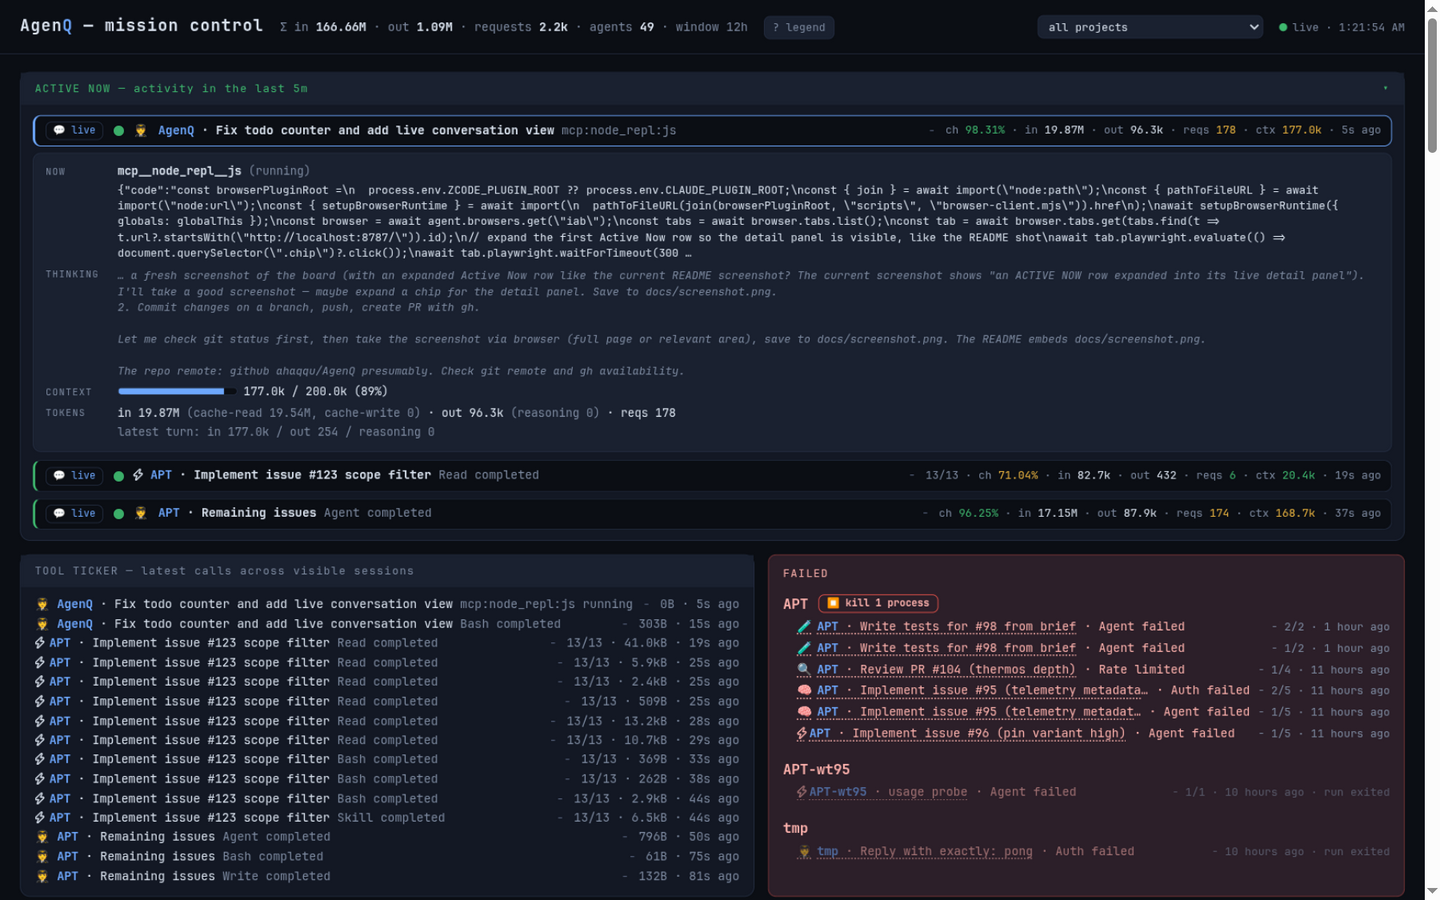
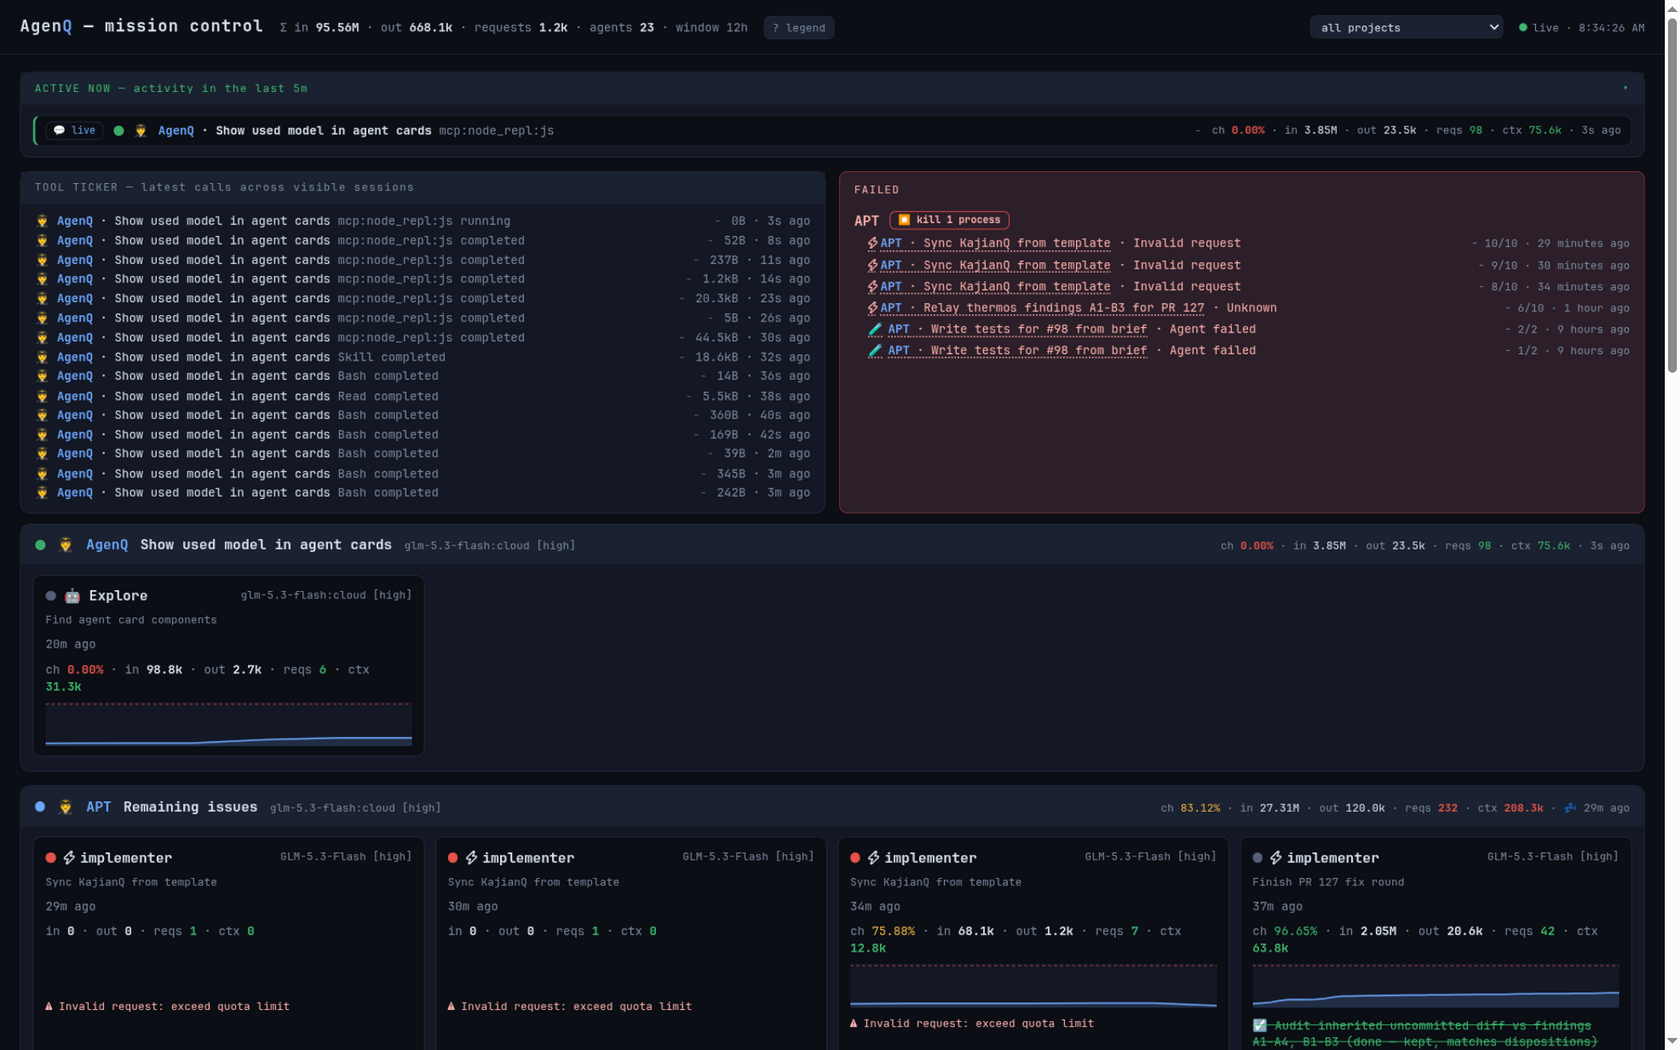
cards: show model + thinking level, rework layout, sparkline polish (#10)
* cards: show model + thinking level, rework layout, sparkline polish

- main-agent header and subagent cards now show the model in use,
  stamped from each session's most recent request (model_usage) and
  overridden by profile metadata when present; thinking level
  (model_usage.variant) renders as a bracketed tag next to it
- token stats in the main-agent header float right like the
  active-now chips; "ago" gets its own left-aligned row in subagent
  cards, and the task description moves up under the name row
- sparkline: y-scale always spans the 200k cliff with a labeled
  dashed reference line, plot backdrop distinguishable from the card
  background, caption line replaced by a hover tooltip describing
  both axes in plain language

* readme: fresh screenshot (model/thinking cards, new sparkline); add AGENTS.md

- docs/screenshot.png retaken from the live board: cards now show
  model + thinking level, the reworked row layout, and sparklines
  with the labeled 200k cliff; alt text updated to match
- AGENTS.md: PR checklist — keep README current, retake screenshots
  on UI changes

diff --git a/public/app.js b/public/app.js
@@ -50,18 +50,27 @@ function drawSpark(canvas, series) {
   ctx.scale(devicePixelRatio, devicePixelRatio);
   ctx.clearRect(0, 0, w, h);
   if (!series || series.length < 2) return;
-  const max = Math.max(...series, 1);
+  // plot backdrop distinct from the card background (card = --bg)
+  const style = getComputedStyle(document.documentElement);
+  ctx.fillStyle = style.getPropertyValue("--panel").trim() || "#131824";
+  ctx.beginPath();
+  ctx.roundRect(0, 0, w, h, 4);
+  ctx.fill();
+  // y-scale always spans the context cliff so the 200k line (and what's
+  // under vs. over it) is readable even on quiet sessions
+  const max = Math.max(...series, CTX_LIMIT);
   const step = w / (series.length - 1);
+  const yOf = (v) => h - (v / max) * (h - 4) - 2;
   // area
   ctx.beginPath();
   ctx.moveTo(0, h);
-  series.forEach((v, i) => ctx.lineTo(i * step, h - (v / max) * (h - 4) - 2));
+  series.forEach((v, i) => ctx.lineTo(i * step, yOf(v)));
   ctx.lineTo(w, h);
   ctx.closePath();
   ctx.fillStyle = "rgba(110,168,254,.15)";
   ctx.fill();
   // line, turning red past the context cliff
-  const scaled = series.map((v) => h - (v / max) * (h - 4) - 2);
+  const scaled = series.map(yOf);
   ctx.beginPath();
   series.forEach((v, i) => {
     const x = i * step, y = scaled[i];
@@ -70,20 +79,26 @@ function drawSpark(canvas, series) {
   ctx.strokeStyle = max > CTX_LIMIT ? "#e5534b" : "#6ea8fe";
   ctx.lineWidth = 1.5;
   ctx.stroke();
-  // cliff marker if visible
-  if (max > CTX_LIMIT) {
-    const y = h - (CTX_LIMIT / max) * (h - 4) - 2;
+  // cliff marker + label, always drawn now that the scale reaches 200k
+  {
+    const y = yOf(CTX_LIMIT);
     ctx.setLineDash([3, 3]);
     ctx.strokeStyle = "rgba(229,83,75,.5)";
     ctx.beginPath(); ctx.moveTo(0, y); ctx.lineTo(w, y); ctx.stroke();
     ctx.setLineDash([]);
+    ctx.fillStyle = "rgba(229,83,75,.8)";
+    ctx.font = "9px ui-monospace, monospace";
+    ctx.textAlign = "right";
+    ctx.fillText(fmt(CTX_LIMIT), w - 2, y - 2);
   }
+  ctx.textAlign = "left";
 }
 
 function agentCard(s) {
   const emoji = ROLE_EMOJI[s.role] ?? "🤖";
   const name = s.role ?? (s.title ? "main" : "session");
   const sparkId = "spark-" + s.id;
+  const modelHtml = [s.model, s.thinking && `[${s.thinking}]`].filter(Boolean).join(" ");
   // a dead run's failure keeps its red dot but stops pulsing
   const dot = s.status === "failed" && s.live === false ? "exited" : s.status;
   const todoHtml = (s.todos ?? []).slice(0, 8).map((t) =>
@@ -95,12 +110,12 @@ function agentCard(s) {
       <span class="status ${esc(dot)}" title="${esc(s.status)}${s.live === false ? " · process exited" : ""}"></span>
       <span>${emoji}</span>
       <span class="name">${esc(name)}</span>
-      <span class="model">${esc(s.model ?? "")}</span>
+      <span class="model">${esc(modelHtml)}</span>
     </div>
-    <div class="nums"><span class="stats">${statsHtml(s)}</span><span class="when">${s.status === "sleep" ? "💤 " : ""}${ago(s.lastAt)}</span></div>
-    <canvas class="spark" id="${sparkId}"></canvas>
-    <div class="cap">input tokens / request — dashed line = ${fmt(CTX_LIMIT)} context cliff</div>
     ${s.description ? `<div class="desc" title="${esc(s.description)}">${esc(s.description)}</div>` : ""}
+    <div class="when">${s.status === "sleep" ? "💤 " : ""}${ago(s.lastAt)}</div>
+    <div class="nums"><span class="stats">${statsHtml(s)}</span></div>
+    <canvas class="spark" id="${sparkId}" title="Token use per request. The dashed red line is the ${(CTX_LIMIT / 1000).toFixed(1)}k context cliff — past it the line turns red.&#10;x-axis: requests, oldest to newest (last 120, spaced by request order, not by time)&#10;y-axis: input tokens, 0 up to the ${(CTX_LIMIT / 1000).toFixed(1)}k cliff"></canvas>
     ${todoHtml ? `<ul class="todos">${todoHtml}</ul>` : ""}
     ${s.lastError ? `<div class="err">⚠ ${esc(humanType(s.lastError.type))}: ${esc(s.lastError.message ?? "")}${s.live === false ? " · run exited" : ""}</div>` : ""}
     ${s.lastError && s.directory && stoppedDirs.has(s.directory) ? `<div class="stoppedmark">⏹ stopped by you — project run killed</div>` : ""}
@@ -513,6 +528,7 @@ function render(state) {
           <span>🧑✈</span>
           ${root.project ? `<span class="proj" title="${esc(root.project)}">${esc(shortProject(root.project))}</span>` : ""}
           <span class="title">${esc(root.title ?? "main session")}</span>
+          <span class="model">${esc([root.model, root.thinking && `[${root.thinking}]`].filter(Boolean).join(" "))}</span>
           <span class="meta">${statsHtml(root)} · ${root.status === "sleep" ? "💤 " : ""}${ago(root.lastAt)}</span>
         </div>
         <div class="kids">${kids.map(agentCard).join("") || `<div class="desc" style="padding:6px 4px">no dispatched subagents</div>`}</div>

diff --git a/public/index.html b/public/index.html
@@ -99,6 +99,9 @@
     cursor: default;
   }
   .head .title { font-weight: 700; }
+  .head .model { color: var(--dim); font-size: 11px; }
+  /* token stats ride the right edge, like the active-now chips */
+  .head .meta { flex: 0 1 auto; margin-left: auto; min-width: 20ch; max-width: 62%; overflow: hidden; text-overflow: ellipsis; white-space: nowrap; text-align: right; }
   .head .meta { color: var(--dim); font-size: 11px; }
   .head .meta b { color: var(--text); font-weight: 400; }
   .kids { padding: 10px 12px 14px; display: grid; gap: 10px; grid-template-columns: repeat(auto-fill, minmax(340px, 1fr)); }
@@ -120,7 +123,8 @@
   @keyframes pulse { 50% { opacity: .35; transform: scale(.8); } }
   .nums { display: flex; gap: 14px; margin: 8px 0 6px; font-size: 12px; color: var(--dim); }
   .nums b { color: var(--text); }
-  .nums .when { margin-left: auto; flex: none; }
+  /* standalone "when" row in agent cards: its own line, left-aligned */
+  .kid .when { font-size: 12px; color: var(--dim); margin: 8px 0 0; }
   /* stat thresholds: green comfortable, amber close, red critical
      (compound selectors so they win over the `.chip .r b` / `.nums b` /
      `.head .meta b` base colors — note those b-rules out-specify bare .st-*) */
@@ -131,8 +135,6 @@
   .st-hot, .nums .st-hot, .meta .st-hot, .chip .r .st-hot,
   .nums b.st-hot, .meta b.st-hot, .chip .r b.st-hot { color: var(--fail); font-weight: 700; }
   canvas.spark { width: 100%; height: 44px; display: block; }
-  .cap { font-size: 10px; color: var(--dim); margin-top: 2px; }
-  .cap .over { color: var(--fail); font-weight: 700; }
   .desc { color: var(--dim); font-size: 11px; margin-top: 6px; max-height: 2.6em; overflow: hidden; }
   ul.todos { list-style: none; margin: 8px 0 0; padding: 0; font-size: 12px; }
   ul.todos li { padding: 1px 0; color: var(--dim); }

diff --git a/README.md b/README.md
@@ -4,7 +4,7 @@ Live mission-control monitor for [ZCode](https://github.com/ahaqqu) main session
 
 AgenQ reads (read-only) the telemetry ZCode already writes on disk and turns it into a live board:
 
-![AgenQ mission control — an ACTIVE NOW row expanded into its live detail panel](docs/screenshot.png)
+![AgenQ mission control — agent tree with model + thinking level on every card, tool ticker, failure alerts, and token-burn sparklines against the 200k context cliff](docs/screenshot.png)
 
 - **Agent tree** — the manager session with every dispatched subagent under it (role, model, live status)
 - **Token-burn sparklines** — input tokens per request per agent, with a dashed marker at the 200K context cliff (the cliff that cost 36M tokens in the run that motivated this tool — see ahaqqu/agentic-project-template#94)

diff --git a/AGENTS.md b/AGENTS.md
@@ -1,0 +1,9 @@
+# AGENTS.md
+
+## Pull requests
+
+Before opening a PR, check that `README.md` is up to date with the change:
+
+- UI changes: retake the affected screenshots in `docs/` and update them (and their alt text) in the README. Screenshot the running board at its normal viewport — don't reuse stale captures.
+- Behavior/feature changes: update the README section that describes the feature (and the "Where the data comes from" table if sources change).
+- If nothing in the README is affected, say so in the PR description instead of silently skipping the check.
